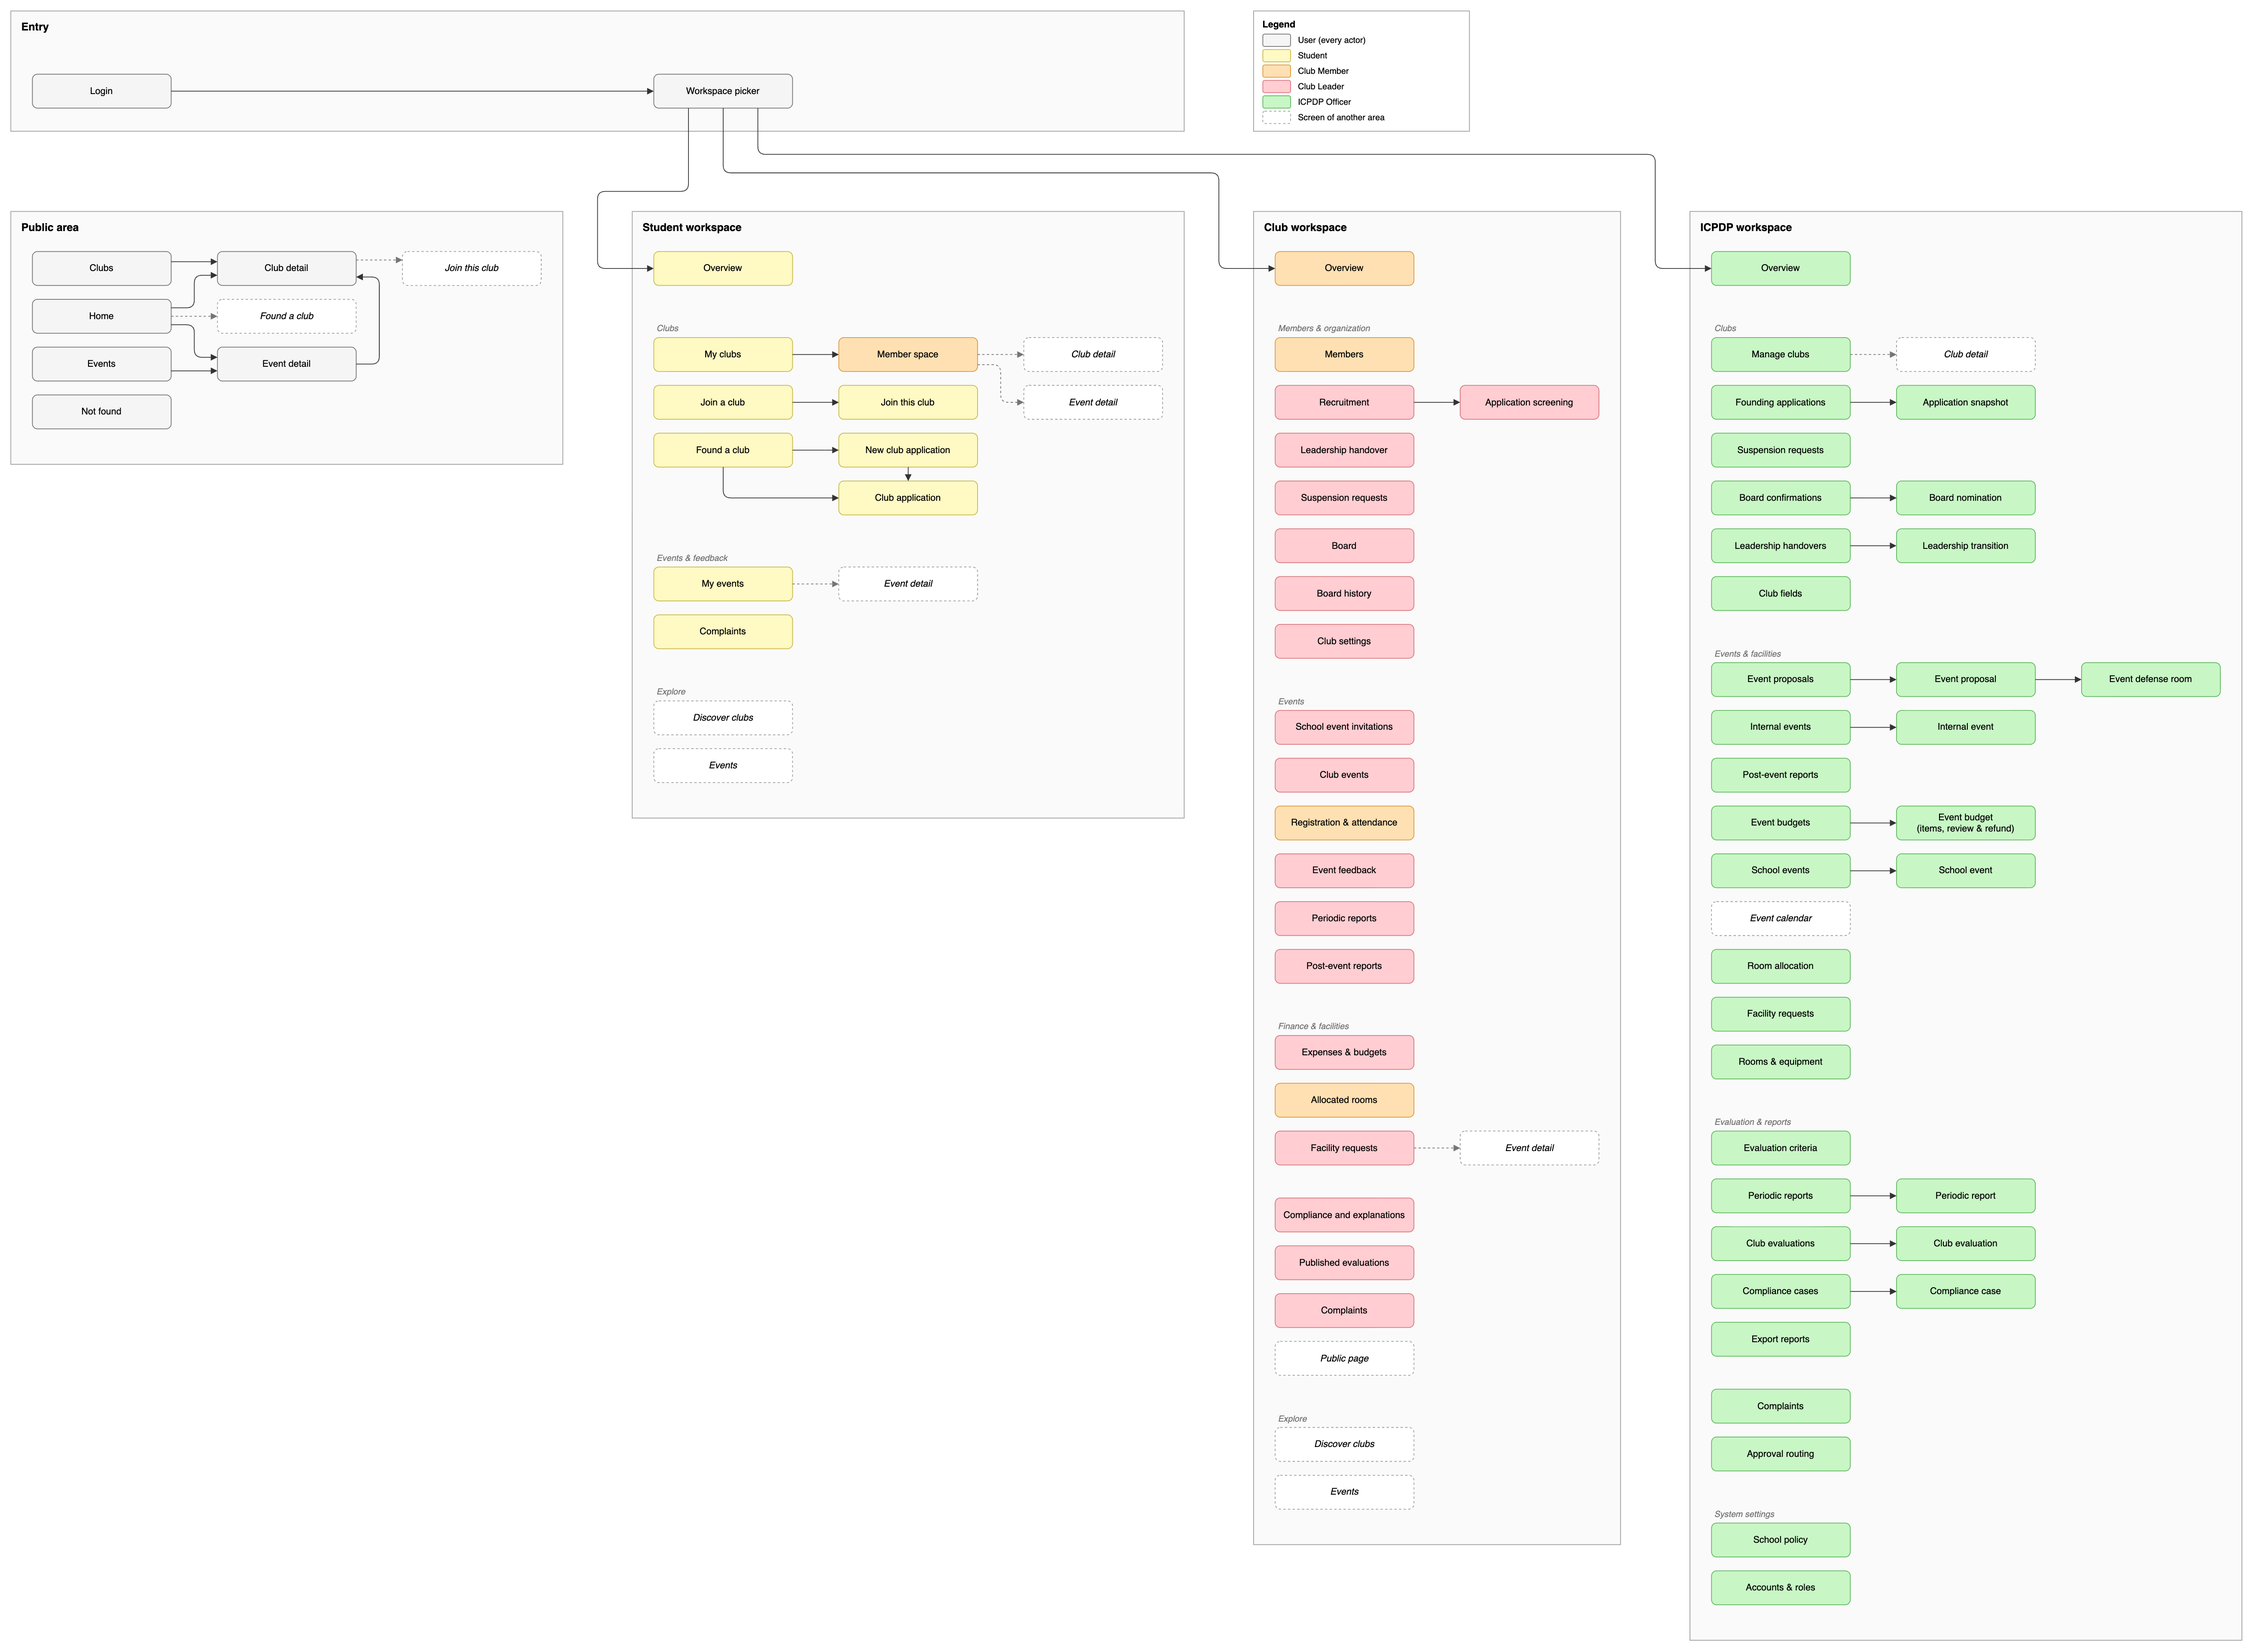
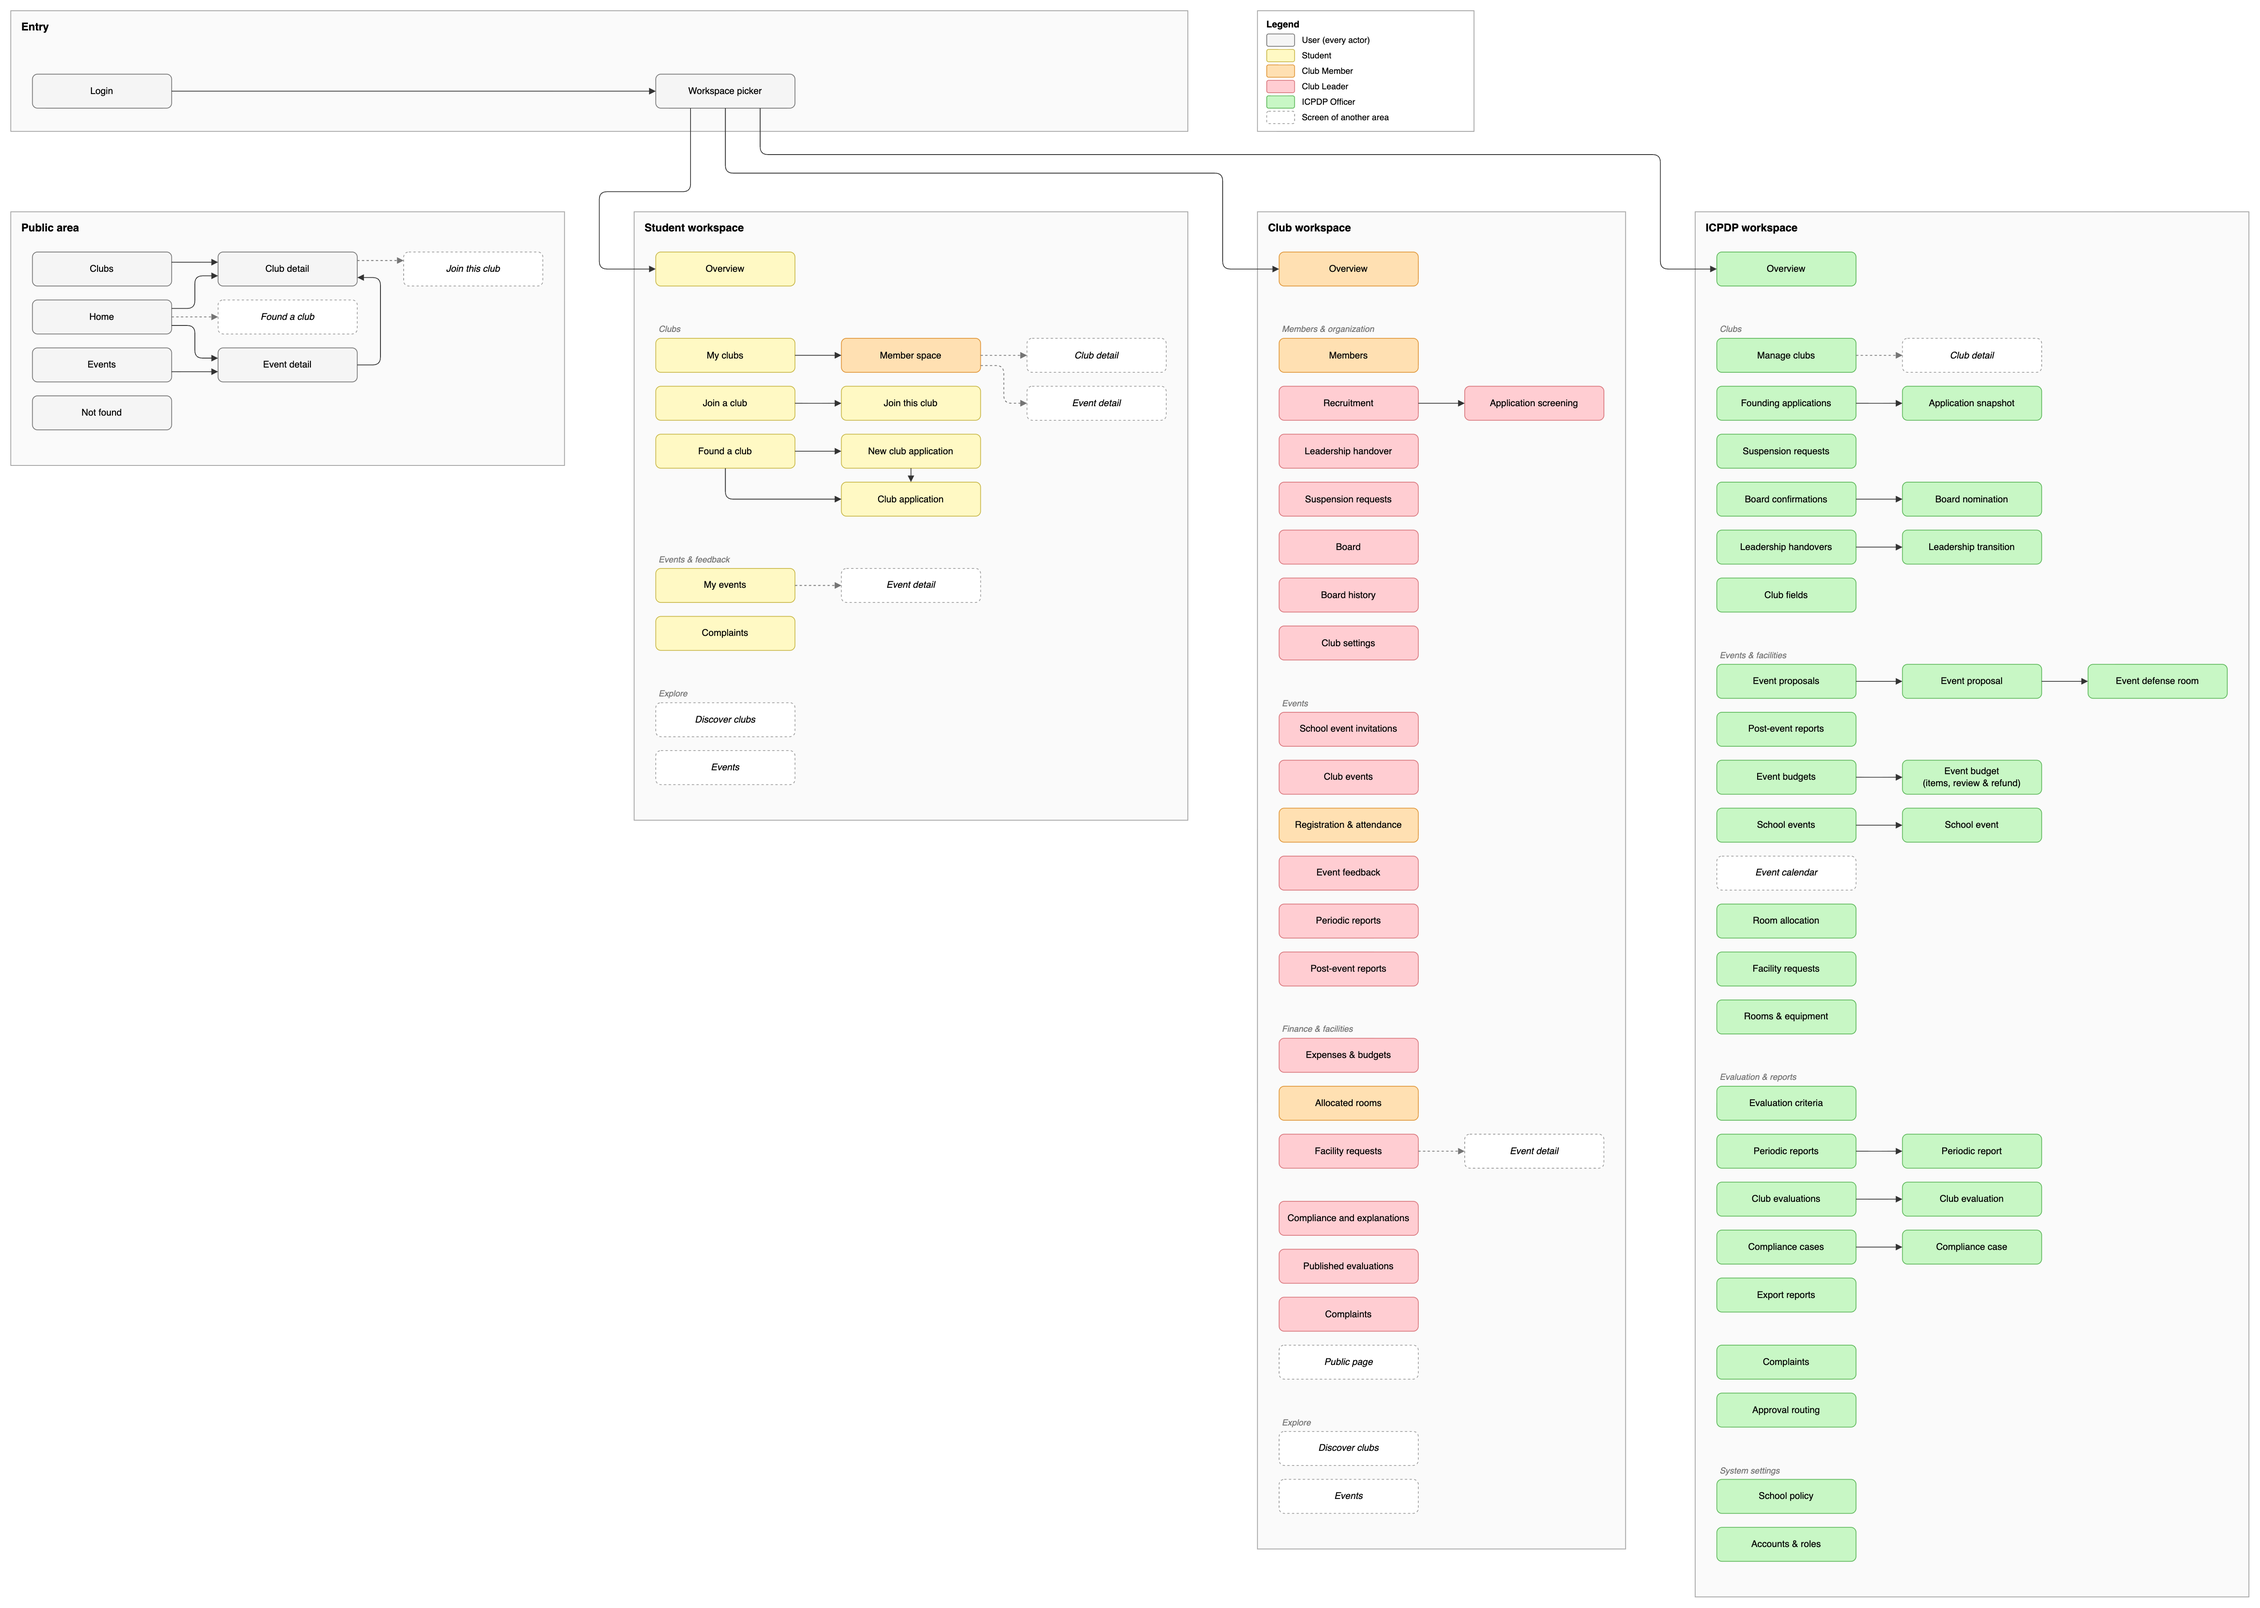
docs(diagrams): drop the internal event screens from the screen flow

diff --git a/docs/03-diagrams/README.md b/docs/03-diagrams/README.md
@@ -329,3 +329,4 @@ Mỗi hình thoi vẫn có đúng 1 cạnh vào và 2 cạnh ra.
 - **State diagram Event (2026-11-24):** gỡ khối vòng đời sự kiện nội bộ CLB (`DRAFT → CREATED → PUBLIC → ONGOING → FINISH`) vì tính năng đã bị gỡ khỏi code ngày 19/11/2026 (commit `5efb7fe`).
 - **Context diagram (2026-11-24):** bỏ luồng `Internal event records` (UCMS → ICPDP) và đổi nhãn `Event proposals & internal events` thành `Event proposals`, vì sự kiện nội bộ CLB đã gỡ khỏi code; còn 45 luồng.
 - **Organization structure (2026-11-24):** bỏ ô note vàng và các dòng mô tả phụ trong từng khối, chỉ giữ tên khối; nhãn mũi tên còn `recruitment`.
+- **Screen flow (2026-11-24):** bỏ hai màn `Internal events` / `Internal event` của ICPDP (tính năng đã gỡ ngày 19/11/2026), dồn các màn phía dưới lên.
